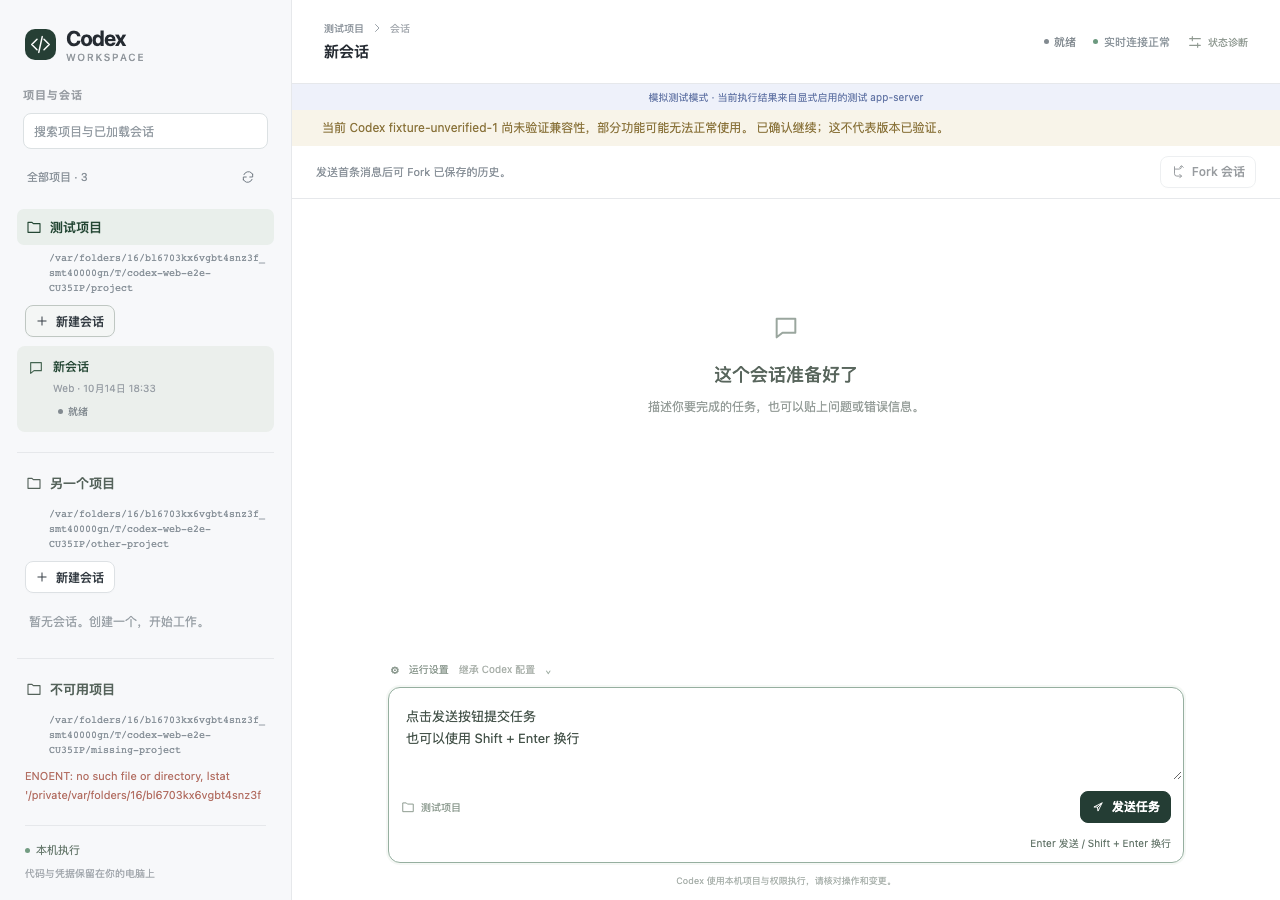
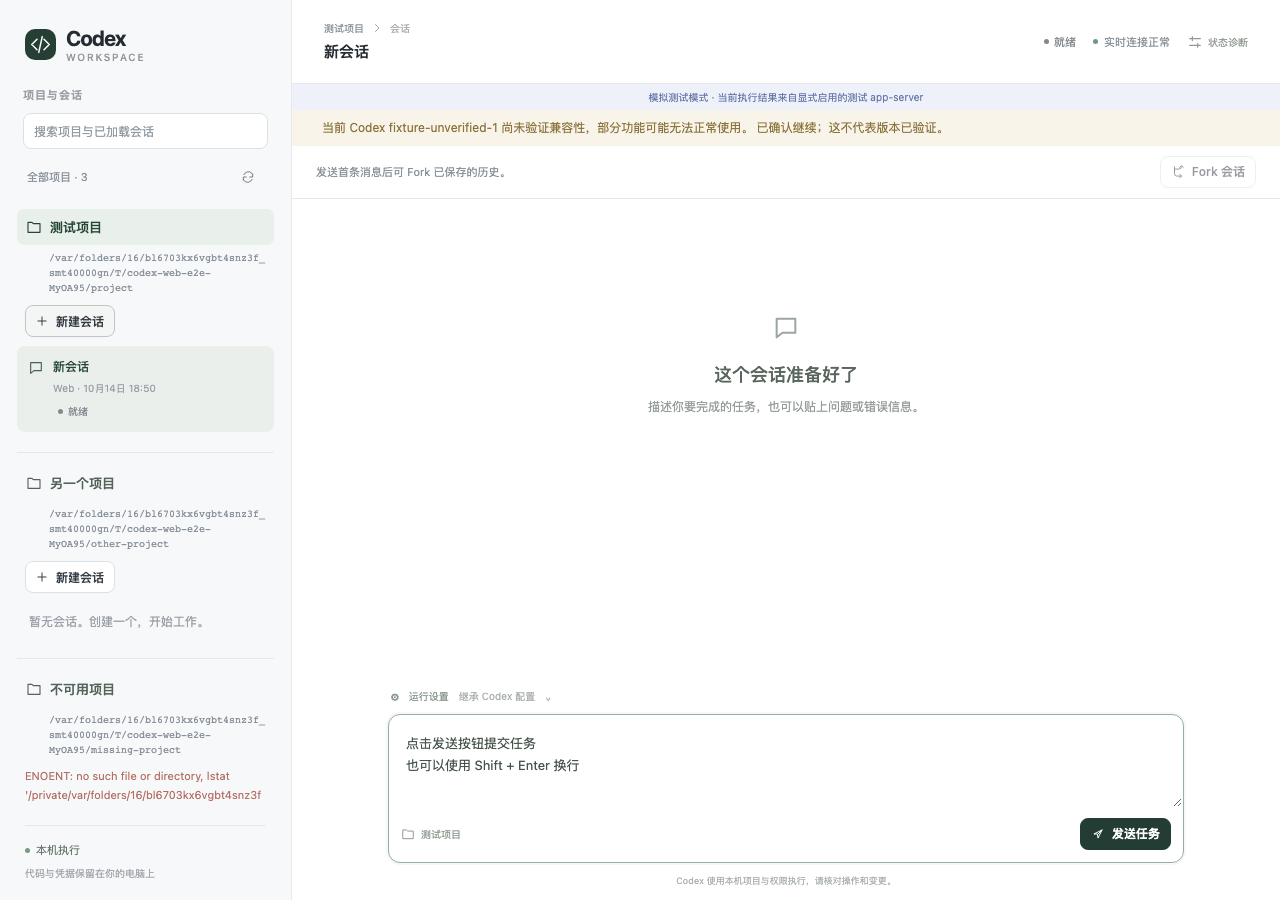
refactor(ui): show composer shortcuts in a button tooltip

diff --git a/tests/e2e/composer.spec.ts b/tests/e2e/composer.spec.ts
@@ -80,6 +80,12 @@ test('Enter submits a task and steers the same active thread and turn', async ({
   await expect(steer).toHaveValue('');
   const additional = '    保留这段缩进\n第二行也需要保留\n';
   await steer.fill(additional);
+  const steerButton = page.getByRole('button', { name: '追加要求', exact: true });
+  await expect(steerButton).toHaveAccessibleDescription('Enter 发送 / Shift + Enter 换行');
+  await steerButton.hover();
+  await expect(page.getByRole('tooltip')).toHaveText('Enter 发送 / Shift + Enter 换行');
+  await page.mouse.move(0, 0);
+  await expect(page.getByRole('tooltip', { includeHidden: true })).toBeHidden();
   const steered = page.waitForRequest(isSubmission);
   await steer.press('Enter');
   const steerRequest = await steered;
@@ -330,17 +336,20 @@ for (const viewport of [
   { name: 'desktop', width: 1280, height: 900 },
   { name: 'mobile', width: 390, height: 844 },
 ]) {
-  test(`${viewport.name} composer shows Enter guidance and its send button still works`, async ({
+  test(`${viewport.name} composer keeps shortcut guidance in a tooltip and its send button works`, async ({
     page,
   }) => {
     await newThread(page);
     await page.setViewportSize({ width: viewport.width, height: viewport.height });
     if (viewport.name === 'mobile') await expect(page.locator('.sidebar')).not.toBeInViewport();
-    await expect(page.locator('.keyboard-hint')).toContainText('Enter 发送');
-    await expect(page.locator('.keyboard-hint')).toContainText('Shift + Enter 换行');
-    await expect(page.locator('.keyboard-hint')).toBeVisible();
+    const tooltip = page.getByRole('tooltip', { includeHidden: true });
+    await expect(tooltip).toHaveCount(1);
+    await expect(tooltip).toContainText('Enter 发送');
+    await expect(tooltip).toContainText('Shift + Enter 换行');
+    await expect(tooltip).toBeHidden();
     await taskInput(page).fill('点击发送按钮提交任务\n也可以使用 Shift + Enter 换行');
     await expect(sendButton(page)).toBeVisible();
+    await expect(sendButton(page)).toHaveAccessibleDescription('Enter 发送 / Shift + Enter 换行');
     expect(
       await page.evaluate(() => document.documentElement.scrollWidth <= window.innerWidth),
     ).toBe(true);
@@ -349,6 +358,39 @@ for (const viewport of [
       fullPage: true,
       animations: 'disabled',
     });
+    if (viewport.name === 'desktop') {
+      await sendButton(page).hover();
+      await expect(tooltip).toBeVisible();
+      await page.screenshot({
+        path: '/tmp/issue-26-tooltip.png',
+        fullPage: true,
+        animations: 'disabled',
+      });
+      // Hover does not move focus from the editor, so Escape must also dismiss
+      // the hint when its keyboard event originates outside the button wrapper.
+      await expect(taskInput(page)).toBeFocused();
+      await page.keyboard.press('Escape');
+      await expect(tooltip).toBeHidden();
+      await expect(taskInput(page)).toBeFocused();
+      await page.mouse.move(0, 0);
+      await sendButton(page).hover();
+      await expect(tooltip).toBeVisible();
+      await page.mouse.move(0, 0);
+      await expect(tooltip).toBeHidden();
+      await taskInput(page).focus();
+      await taskInput(page).press('Tab');
+      await expect(sendButton(page)).toBeFocused();
+      await expect(tooltip).toBeVisible();
+      await sendButton(page).press('Escape');
+      await expect(tooltip).toBeHidden();
+      await expect(sendButton(page)).toBeFocused();
+      await sendButton(page).press('Shift+Tab');
+      await taskInput(page).press('Tab');
+      await expect(tooltip).toBeVisible();
+      await sendButton(page).press('Shift+Tab');
+      await expect(taskInput(page)).toBeFocused();
+      await expect(tooltip).toBeHidden();
+    }
     await sendButton(page).click();
     await expect(page.locator('.turn-heading .status')).toHaveText('已完成');
     await expect(taskInput(page)).toHaveValue('');

diff --git a/src/web/components/Composer.tsx b/src/web/components/Composer.tsx
@@ -1,4 +1,4 @@
-import { useEffect, useRef, useState } from 'react';
+import { useEffect, useId, useRef, useState } from 'react';
 import type { ModelInfo, Settings, ThreadView } from '../../shared/types';
 import { isActive } from './Status';
 import { Button } from './ui/button';
@@ -27,6 +27,8 @@ interface Props {
 export function Composer(props: Props) {
   const [drafts, setDrafts] = useState<Record<string, string>>({});
   const [confirmExternal, setConfirmExternal] = useState(false);
+  const [shortcutDismissed, setShortcutDismissed] = useState(false);
+  const shortcutId = useId();
   const composingRef = useRef(false);
   const compositionEndedAtRef = useRef(-Infinity);
   const sendingRef = useRef(new Set<string>());
@@ -36,6 +38,14 @@ export function Composer(props: Props) {
     composingRef.current = false;
     compositionEndedAtRef.current = -Infinity;
   }, [key]);
+  useEffect(() => {
+    // A hover hint must also dismiss when keyboard focus is still in the textarea.
+    const dismissShortcut = (event: KeyboardEvent) => {
+      if (event.key === 'Escape') setShortcutDismissed(true);
+    };
+    document.addEventListener('keydown', dismissShortcut);
+    return () => document.removeEventListener('keydown', dismissShortcut);
+  }, []);
   const text = drafts[key] ?? '';
   const active = isActive(props.thread?.status);
   const external = props.thread && !props.thread.managed;
@@ -145,19 +155,29 @@ export function Composer(props: Props) {
                 {props.interrupting ? '请求中…' : '中断'}
               </Button>
             )}
-            <Button
-              size="sm"
-              onClick={() => {
-                void send();
-              }}
-              disabled={!canSend}
+            <span
+              className="composer-submit"
+              data-tooltip-dismissed={shortcutDismissed || undefined}
+              onMouseEnter={() => setShortcutDismissed(false)}
+              onFocus={() => setShortcutDismissed(false)}
             >
-              <Icon name="send" size={14} />
-              {props.submitting ? '正在提交…' : active ? '追加要求' : '发送任务'}
-            </Button>
+              <Button
+                size="sm"
+                aria-describedby={shortcutId}
+                onClick={() => {
+                  void send();
+                }}
+                disabled={!canSend}
+              >
+                <Icon name="send" size={14} />
+                {props.submitting ? '正在提交…' : active ? '追加要求' : '发送任务'}
+              </Button>
+              <span id={shortcutId} role="tooltip" className="keyboard-hint">
+                Enter 发送 / Shift + Enter 换行
+              </span>
+            </span>
           </div>
         </div>
-        <p className="keyboard-hint">Enter 发送 / Shift + Enter 换行</p>
       </div>
       <p className="composer-note">
         {active

diff --git a/src/web/styles.css b/src/web/styles.css
@@ -1016,12 +1016,40 @@ svg {
   font-size: 10px;
   min-width: 0;
 }
+.composer-submit {
+  position: relative;
+  display: inline-flex;
+}
 .keyboard-hint {
-  margin: 0;
-  padding: 0 12px 10px;
-  text-align: right;
-  color: #66776c;
-  font-size: 10px;
+  position: absolute;
+  right: 0;
+  bottom: calc(100% + 8px);
+  z-index: 2;
+  visibility: hidden;
+  padding: 7px 10px;
+  border-radius: 6px;
+  color: #fff;
+  background: #243d33;
+  box-shadow: 0 3px 12px #18321f20;
+  font-size: 11px;
+  line-height: 1.5;
+  white-space: nowrap;
+}
+.keyboard-hint::after {
+  content: '';
+  position: absolute;
+  top: 100%;
+  right: 0;
+  left: 0;
+  height: 8px;
+}
+.composer-submit:not([data-tooltip-dismissed]):has(:focus-visible) .keyboard-hint {
+  visibility: visible;
+}
+@media (hover: hover) {
+  .composer-submit:not([data-tooltip-dismissed]):hover .keyboard-hint {
+    visibility: visible;
+  }
 }
 .composer-note {
   text-align: center;
